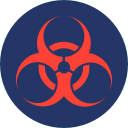
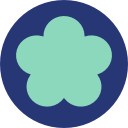
Switch assets to a more positive shape

diff --git a/src/content/content.tsx b/src/content/content.tsx
@@ -46,6 +46,7 @@ interface Badsite {
 /**
  * With the top level array of domains build a Map we can consult
  * including variations on domains eg. with/without www.
+ * TODO: move to api?
  */
 function buildMap(list: Array<Badsite>): Badnet {
   const badnet = new Map();

diff --git a/src/styles.css b/src/styles.css
@@ -1,3 +1,3 @@
 .betterwebalert {
-  background-image: url("chrome-extension://__MSG_@@extension_id__/images/biohazard_symbol.svg");
+  background-image: url("chrome-extension://__MSG_@@extension_id__/images/warning.svg");
 }
